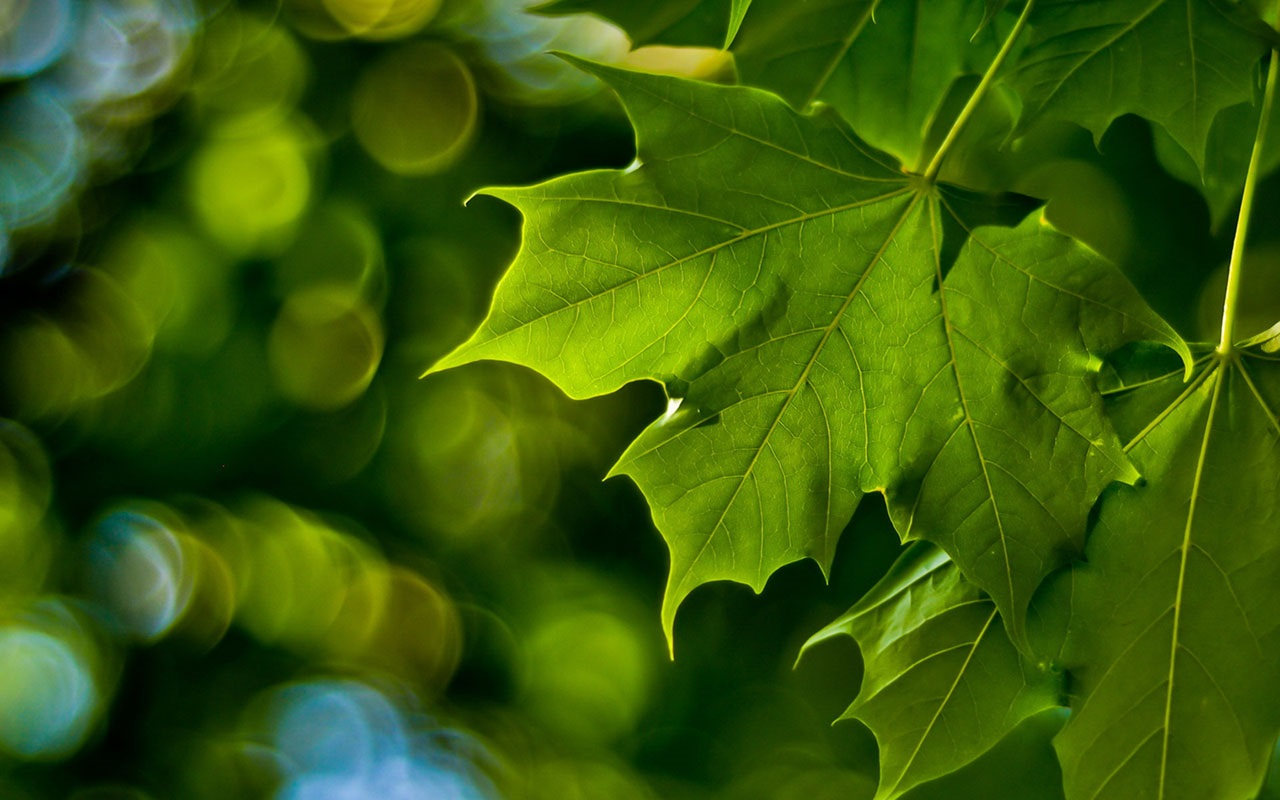
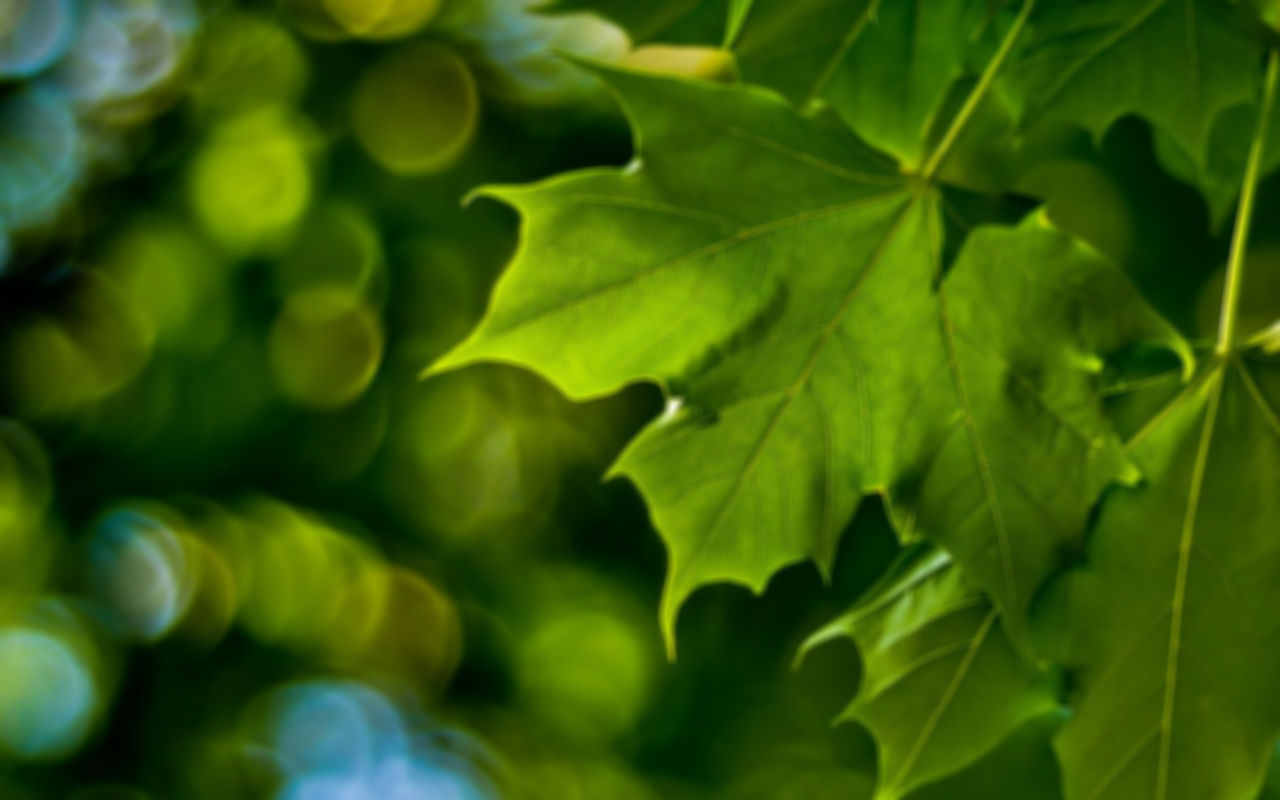
blurred main image, minor styling changes

diff --git a/css/carousel.css b/css/carousel.css
@@ -45,8 +45,16 @@ body, footer {
   .dropdown-menu>.active>a:focus {
     background-color: #1D6784;
 }
+
 a {
   color: #67851d;
+}
+
+.navbar-default .navbar-nav .open .dropdown-menu>.active>a, 
+  .navbar-default .navbar-nav .open .dropdown-menu>.active>a:hover, 
+  .navbar-default .navbar-nav .open .dropdown-menu>.active>a:focus {
+    color: #fff;
+    background-color: #1D6784;
 }
 
 a:focus {
@@ -69,7 +77,7 @@ a:focus {
 
 /****** Unassigned ******/
 a:hover {
-  color: black;
+  color: slategray;
 }
 
 .carousel h3{
@@ -90,9 +98,9 @@ footer {
   font-size: 16px;
 }
 
-/* this wrapper div creates side-solumns once the screen gets toa certain size */
+/* this wrapper div creates side-solumns once the screen gets to a certain size as specifed by max-width.  If max-width is commented out then the site will fill the whole screen */
 .sitecontent {
-  /*max-width: 1200px;*/
+  /*max-width: 1200px;  */
   position: relative;
   margin: auto;
 }
@@ -146,13 +154,17 @@ footer {
   font-family: 'Oxygen', sans-serif;
   font-size: 34px;
   font-weight: 700;
-  text-shadow: 1px 1px black;
+  text-shadow: 2px 2px 5px black;
 }
 
 .carousel h3{
   font-weight: bold;
+  text-shadow: 2px 2px 4px black;
 }
 
+.carousel p{
+  text-shadow: 1px 1px 3px black;
+}
 
 /* Since positioning the image, we need to help out the caption */
 .carousel-caption {
@@ -179,15 +191,15 @@ footer {
   background-size: cover;
   background-position: center;
   background-repeat: no-repeat;
-  opacity: .7;
+  opacity: .8;
 
 
-  /*filters are expensive - consider carefully*/
+  /*filters are expensive - consider carefully - just blur the actual image instead in an editor
   -webkit-filter: blur(2px);
   -moz-filter: blur(2px); 
   -o-filter: blur(2px); 
   -ms-filter: blur(2px);
-  filter: blur(2px);
+  filter: blur(2px);*/
 }
 
 
@@ -400,6 +412,11 @@ img.featurette-image{
     font-size: 14px;
   }
 
+  .dropdown-menu>.active>a, 
+  .dropdown-menu>.active>a:hover, 
+  .dropdown-menu>.active>a:focus {
+    background-color: #1D6784;
+
   .carousel h1 {
     font-size: 28px;
   }
@@ -477,6 +494,13 @@ with resoltions between 440 and 768)**
   .navbar-wrapper .navbar {
     padding-right: 0;
     padding-left: 0;
+  }
+
+  .navbar-default .navbar-nav .open .dropdown-menu>.active>a, 
+  .navbar-default .navbar-nav .open .dropdown-menu>.active>a:hover, 
+  .navbar-default .navbar-nav .open .dropdown-menu>.active>a:focus {
+    color: #fff;
+    background-color: #1D6784;
   }
 
   /* The navbar becomes detached from the top, so we round the corners */
